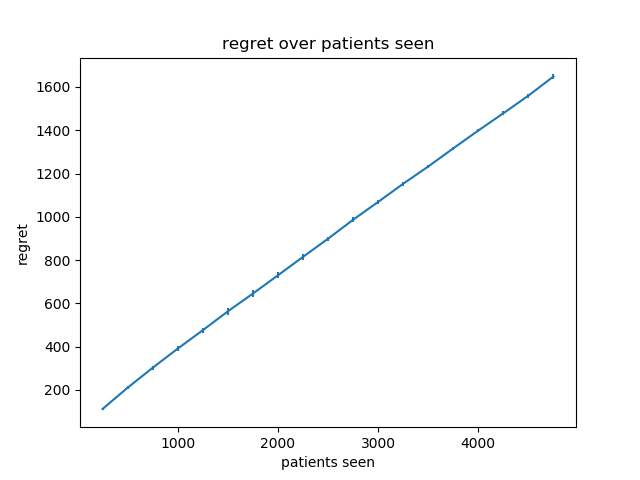
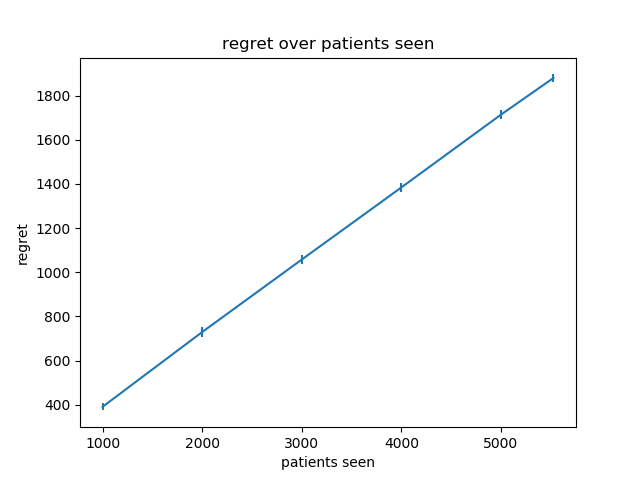
added in continuous and different evaluation flags

diff --git a/model/linearUCB.py b/model/linearUCB.py
@@ -15,14 +15,20 @@ class DataStream(object):
     # For each row:
         # yield feature vector extracted from that row, and ground truth action
 
-    def __init__(self, csv_path, seed=234):
-        features, dosage = get_data(csv_path, seed)
-
-        self.table, self.table_test, y, y_test = \
-                train_test_split(features, dosage, test_size=0.1, random_state=seed, stratify=dosage[:,0])
-
+    def __init__(self, csv_path, val=False, seed=234):
+        # make train and test the same if not running on validation set
+        self.table, y = get_data(csv_path, seed)
+        self.table_test = self.table
         self.ground_truth, self.dosage = y[:,0], y[:,1]
-        self.ground_truth_test, self.dosage_test = y_test[:,0], y_test[:,1]
+        self.ground_truth_test, self.dosage_test = y[:,0], y[:,1]
+
+        # if validation set, then split the data
+        if val:
+            self.table, self.table_test, y, y_test = \
+                    train_test_split(self.table, y, test_size=0.1, random_state=seed, stratify=y[:,0])
+            self.ground_truth, self.dosage = y[:,0], y[:,1]
+            self.ground_truth_test, self.dosage_test = y_test[:,0], y_test[:,1]
+
 
         self.max_rows = len(self.table)
         self.feature_dim = self.table.shape[-1]
@@ -44,6 +50,9 @@ class DataStream(object):
             output = (self.table[self.current], self.ground_truth[self.current], self.dosage[self.current]) 
             self.current += 1
             return output
+
+    def __len__(self):
+        return len(self.table)
 
 
 
@@ -95,7 +104,7 @@ class LinearUCBBandit(object):
 
     # At some timestep t, we get a new action
     def get_action(self, features, ground_truth_action, real_dosage, training=False):
-        features = features.astype(int) 
+        features = features.astype(float) 
         # Translate the strings "low", "medium", "high" into (0,1,2) resp.
         if ground_truth_action == "low":
             ground_truth_action = 0
@@ -154,12 +163,12 @@ def evaluate(seed, ds, bandit):
     return (nb_correct/all_actions)
 
 
-def perform_one_run(seed, incorrect_accuracy_over_runs, regret_over_runs, risk_over_runs, mode):
+def perform_one_run(seed, incorrect_accuracy_over_runs, regret_over_runs, risk_over_runs, mode, val=False, spacing=1000):
     ds = DataStream("../data/warfarin.csv", seed=seed)
     delta = 0.75  # UNUSED
     bandit = LinearUCBBandit(ds.max_rows, 3, ds.feature_dim, delta, mode)
 
-    print("Feature dimensions: {}, alpha: {}".format(ds.feature_dim, bandit.alpha))
+    print("Feature dimensions: {}, alpha: {}, number training patients: {}".format(ds.feature_dim, bandit.alpha, len(ds)))
 
     total_regret = 0
     total_risk = 0
@@ -175,7 +184,7 @@ def perform_one_run(seed, incorrect_accuracy_over_runs, regret_over_runs, risk_o
         nb_correct += 1 if (reward == 0) else 0
 
         # get values
-        if i>=100 and i%250 == 0:
+        if i>=100 and i%spacing == 0:
             x_vals.append(i)
             # acc = nb_correct / (i+1)
             seed_regrets.append(total_regret)
@@ -184,10 +193,19 @@ def perform_one_run(seed, incorrect_accuracy_over_runs, regret_over_runs, risk_o
             seed_incorrects.append(1-acc) 
             print("accuracy at step {}: {}".format(i, acc))
 
+    x_vals.append(i)
+    seed_regrets.append(total_regret)
+    seed_risks.append(total_risk)
+    acc = evaluate(seed, ds, bandit)
+    seed_incorrects.append(1-acc) 
+    print("accuracy at step {}: {}".format(i, acc))
+
     accuracy = nb_correct / ds.max_rows
 
     print("Actions: ", actions)
     print("total regret:", total_regret)
+    print("cumulative accuracy", accuracy)
+
     incorrect_accuracy_over_runs.append(seed_incorrects)
     regret_over_runs.append(seed_regrets)
     risk_over_runs.append(seed_risks)
@@ -206,12 +224,12 @@ if __name__ == "__main__":
     # store the list of 
     incorrect_accuracy_over_runs, regret_over_runs, risk_over_runs = [], [], []
     for seed in seeds:
-        x_vals = perform_one_run(seed, incorrect_accuracy_over_runs, regret_over_runs, risk_over_runs, args.mode)
+        x_vals = perform_one_run(seed, incorrect_accuracy_over_runs, regret_over_runs, risk_over_runs, args.mode, spacing=1000)
     
     # plot incorrect and regret with confidence bounds 
-    plot_(x_vals, incorrect_accuracy_over_runs, args.mode, 'percent_incorrect') 
-    plot_(x_vals, regret_over_runs, args.mode, 'regret') 
-    plot_(x_vals, risk_over_runs, args.mode, 'risk') 
+    plot_(x_vals, incorrect_accuracy_over_runs, args.mode, 'continuous_percent_incorrect') 
+    plot_(x_vals, regret_over_runs, args.mode, 'continuous_regret') 
+    plot_(x_vals, risk_over_runs, args.mode, 'continuous_risk') 
     # Store our accuracies and regret
     """
     prefix = "linearUCB_" + args.mode

diff --git a/model/utils.py b/model/utils.py
@@ -10,10 +10,12 @@ def get_bucket(dosage):
 		return 'high'
 
 def bucket_weight(x):
-    return str((x-30)//20)
+    # return str((x-30)//20)
+    return str(x//50)
 
 def bucket_height(x):
-    return str((x-120)//10)
+    # return str((x-120)//10)
+    return str(x//50)
 
 def get_accuracy(pred, real):
 	x = pred == real
@@ -28,6 +30,11 @@ def get_features_and_dosage(file):
 
 	return df, features, true_dosages
 
+# normalize to (0,1) range
+def normalize_col(col):
+	mx, mn =  np.max(col), np.min(col)
+	return (col - mn) / (mx-mn)
+
 def get_data(path, seed=234):
 	df = pd.read_csv(path)
 	df = df.dropna(subset = ['Therapeutic Dose of Warfarin'])
@@ -35,13 +42,14 @@ def get_data(path, seed=234):
 	df['weight_bucket'] = df['Weight (kg)'].apply(bucket_weight)
 	df['height_bucket'] = df['Height (cm)'].apply(bucket_height)
 	df['Target INR'] = df['Target INR'].astype('object')
+	df['Current Smoker'] = df['Current Smoker'].astype('object')
 	df['Carbamazepine (Tegretol)'] = df['Carbamazepine (Tegretol)'].astype('object')
 	df['Phenytoin (Dilantin)'] = df['Phenytoin (Dilantin)'].astype('object')
 	df['Rifampin or Rifampicin'] = df['Rifampin or Rifampicin'].astype('object')
 	df['Amiodarone (Cordarone)'] = df['Amiodarone (Cordarone)'].astype('object')
 
 	# feature_list = ['Gender']
-	feature_list = ['weight_bucket', 'height_bucket', 'Gender', 'Race', 'Ethnicity', 'Age', 'Cyp2C9 genotypes', \
+	feature_list = ['Gender', 'Race', 'Ethnicity', 'Age', 'Cyp2C9 genotypes', \
             'VKORC1 genotype: -1639 G>A (3673); chr16:31015190; rs9923231; C/T', \
             'VKORC1 genotype: 497T>G (5808); chr16:31013055; rs2884737; A/C', \
             'VKORC1 QC genotype: 1173 C>T(6484); chr16:31012379; rs9934438; A/G', \
@@ -49,9 +57,13 @@ def get_data(path, seed=234):
             'VKORC1 genotype: 3730 G>A (9041); chr16:31009822; rs7294;  A/G', \
             'VKORC1 genotype: 2255C>T (7566); chr16:31011297; rs2359612; A/G', \
             'VKORC1 genotype: -4451 C>A (861); Chr16:31018002; rs17880887; A/C', \
-            'Indication for Warfarin Treatment', 'Target INR']
+            'Carbamazepine (Tegretol)', 'Phenytoin (Dilantin)', 'Rifampin or Rifampicin', 'Amiodarone (Cordarone)', \
+            'Indication for Warfarin Treatment', 'Estimated Target INR Range Based on Indication', 'Current Smoker']
 	# feature_list = ['Gender']
 	features = pd.get_dummies(df[feature_list], dummy_na=True)
+
+	features['height'] = df['Height (cm)'].fillna(np.mean(df['Height (cm)']))
+	features['weight'] = df['Weight (kg)'].fillna(np.mean(df['Weight (kg)']))
 	features['bias'] = 1
 
 	features['dosage_bucket'] = df['dosage_bucket']
